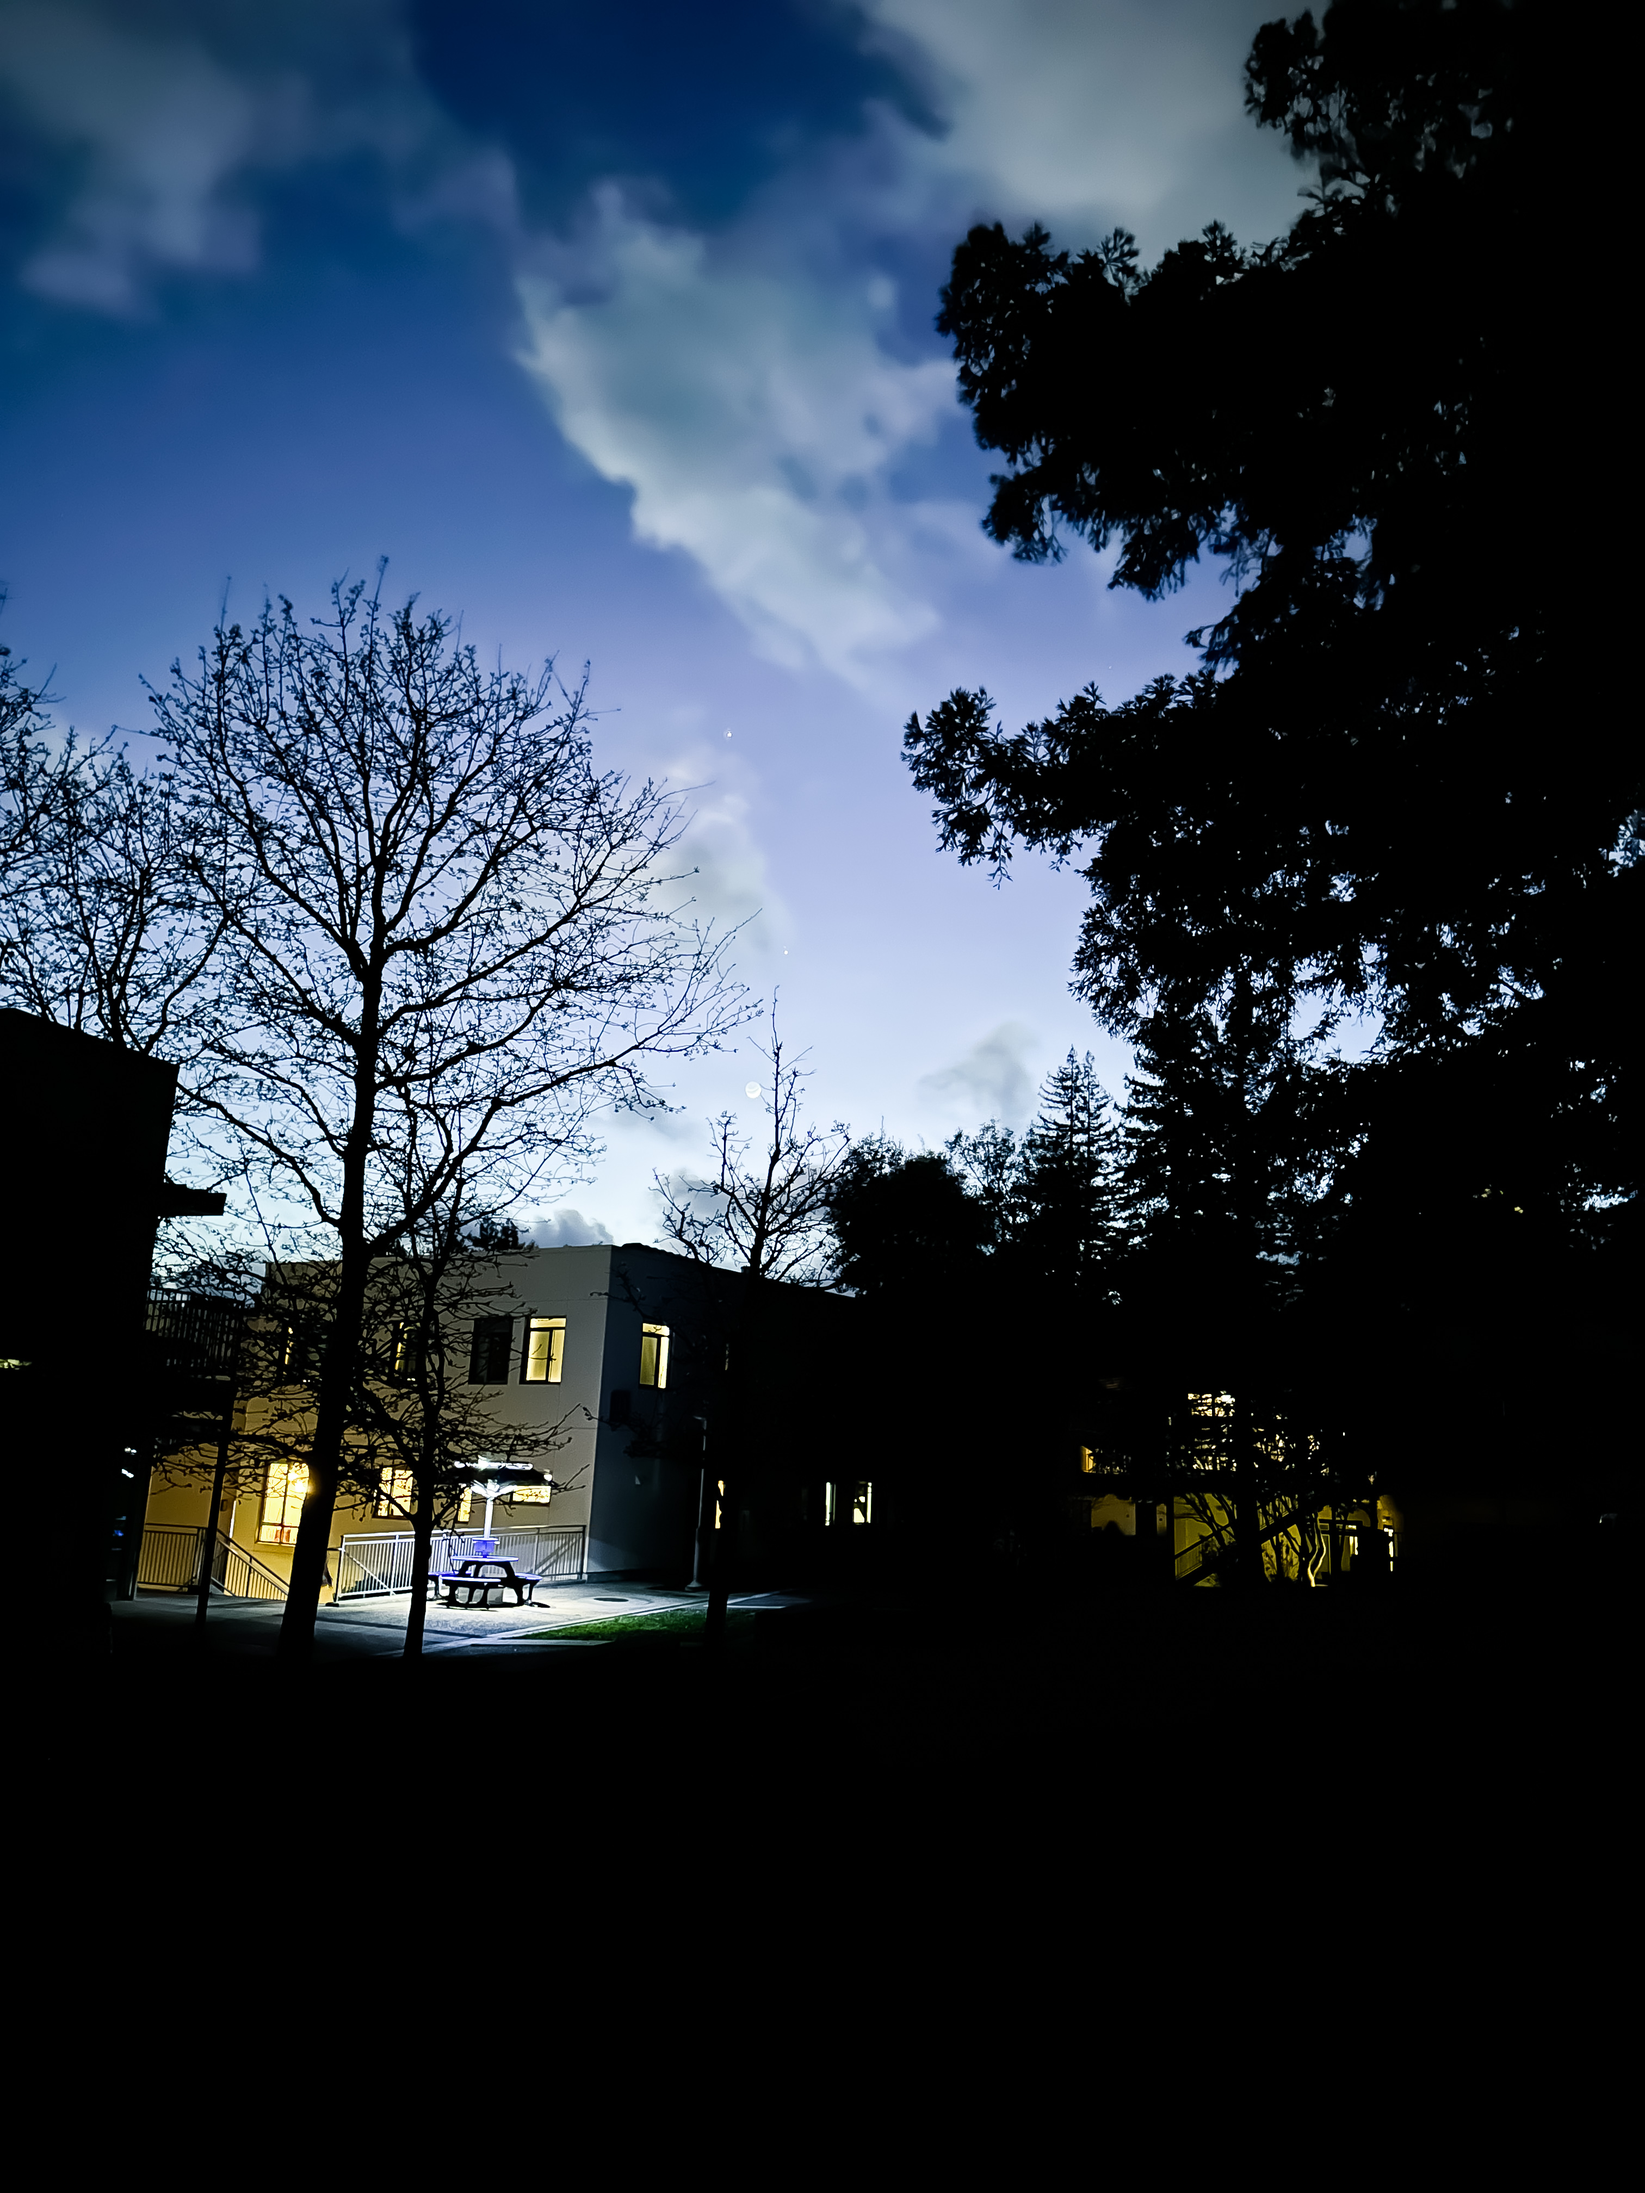
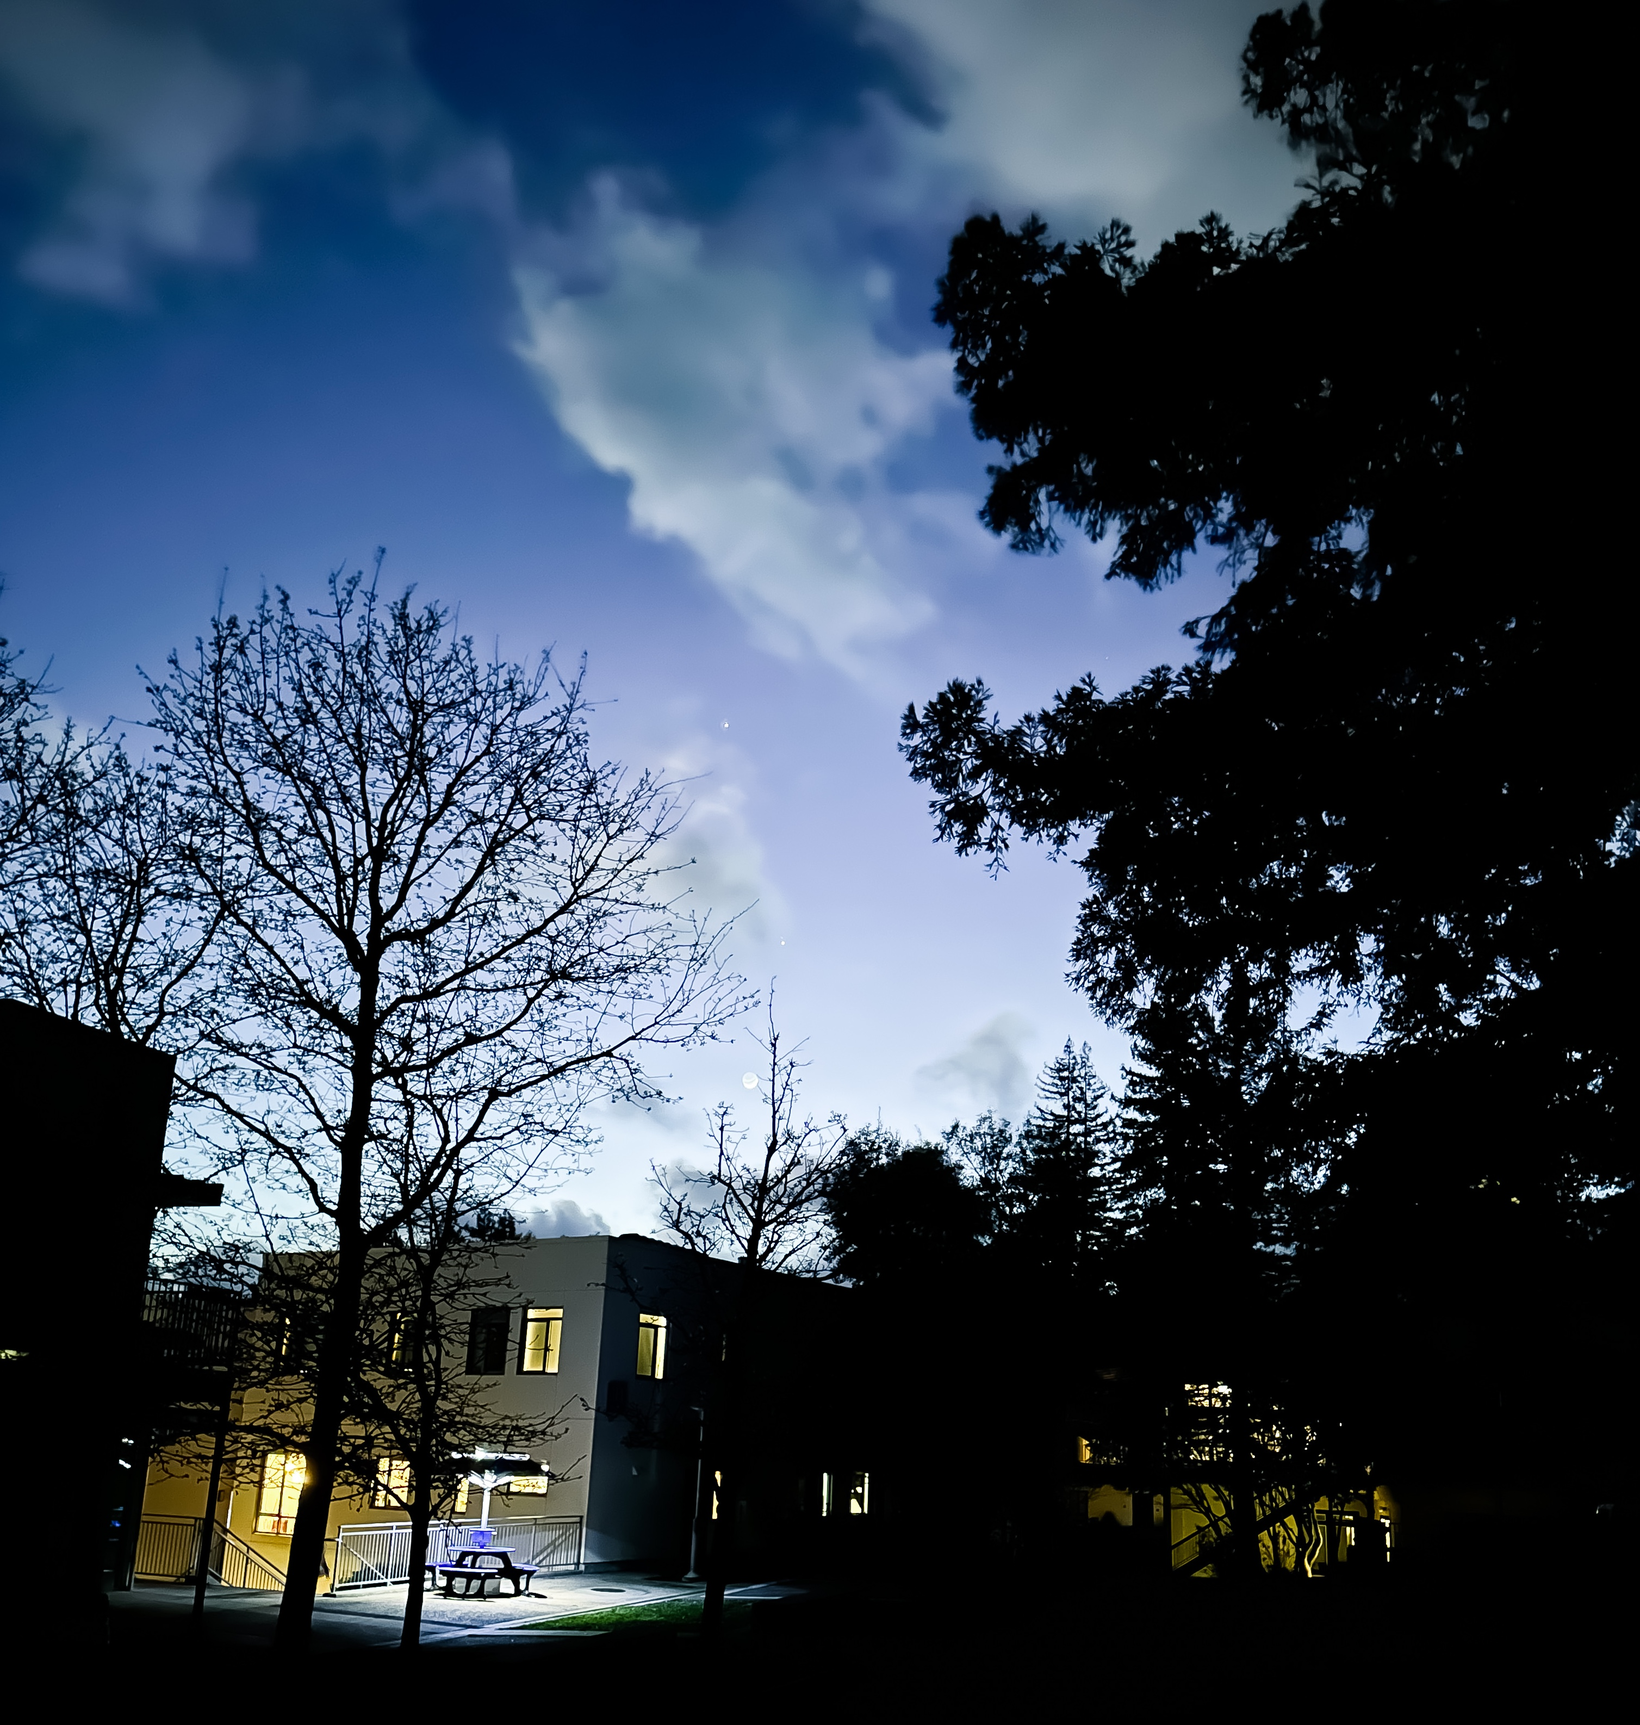
update photos

diff --git a/_includes/publications.html b/_includes/publications.html
@@ -56,6 +56,18 @@
     <div class="photos-container mt-5">
       <div class="photos-scroll">
         <div class="photo-item">
+          <img src="/assets/img/henrycowell.jpg" alt="Publication Photo 7" class="img-thumbnail">
+          <div class="photo-title">henry cowell, 2022</div>
+        </div>
+        <div class="photo-item">
+          <img src="/assets/img/ucscfield.jpg" alt="Publication Photo 6" class="img-thumbnail">
+          <div class="photo-title">ucsc field, 2023</div>
+        </div>
+        <div class="photo-item">
+          <img src="/assets/img/cave.jpg" alt="Publication Photo 8" class="img-thumbnail">
+          <div class="photo-title">cave, 2023</div>
+        </div>
+        <div class="photo-item">
           <img src="/assets/img/bigsur.jpg" alt="Publication Photo 1" class="img-thumbnail">
           <div class="photo-title">big sur, 2024</div>
         </div>
@@ -70,6 +82,10 @@
         <div class="photo-item">
           <img src="/assets/img/wharf.jpg" alt="Publication Photo 4" class="img-thumbnail">
           <div class="photo-title">santa cruz wharf, 2024</div>
+        </div>
+        <div class="photo-item">
+          <img src="/assets/img/westcliff.jpg" alt="Publication Photo 5" class="img-thumbnail">
+          <div class="photo-title">west cliff, 2024</div>
         </div>
         <!-- Add more photos as needed -->
       </div>
